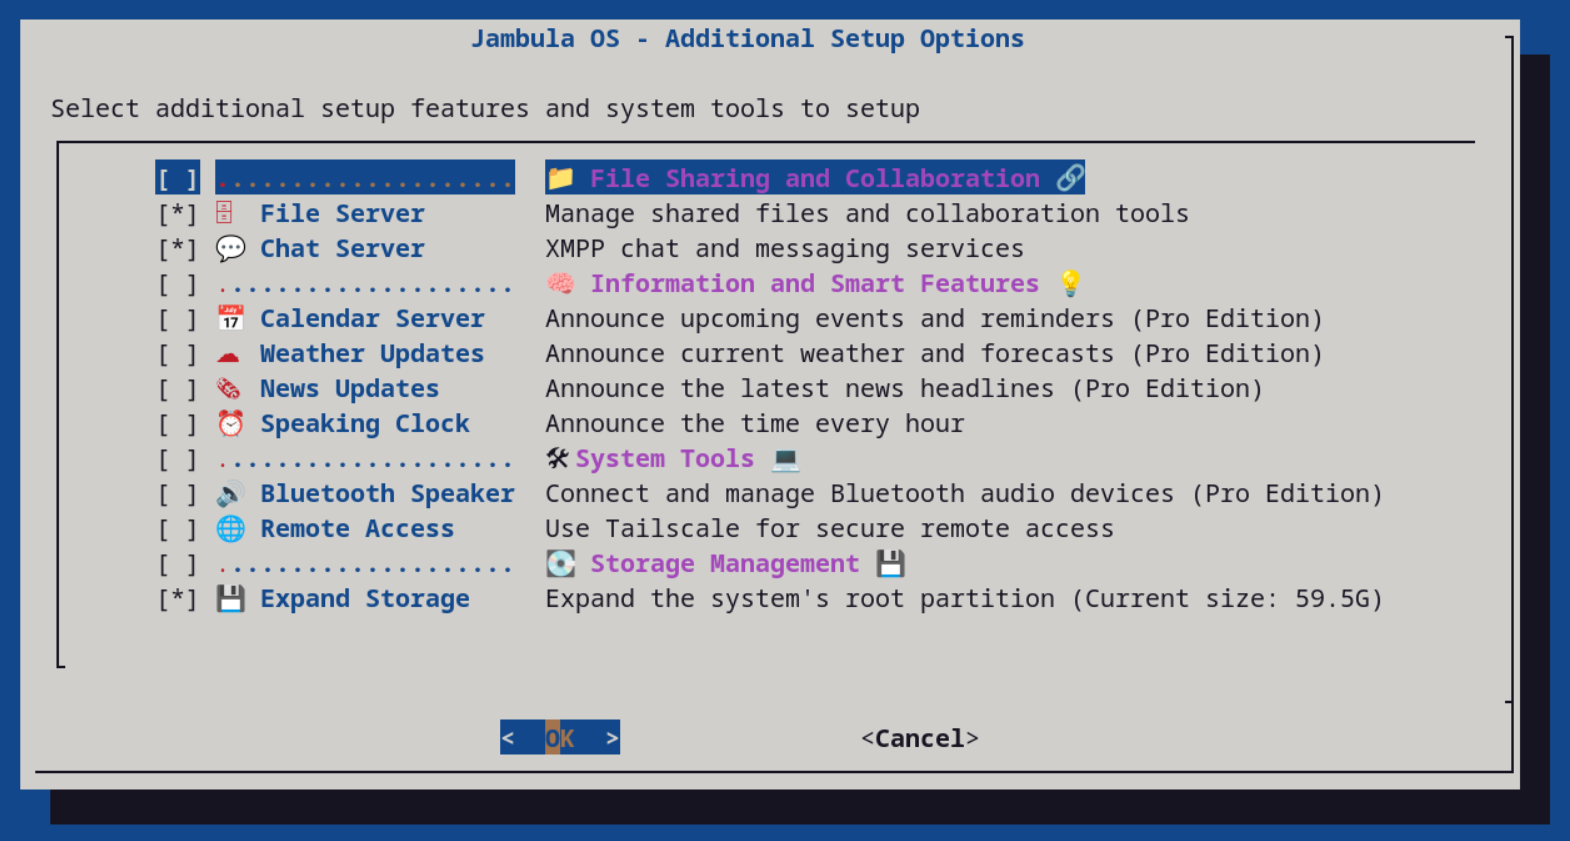
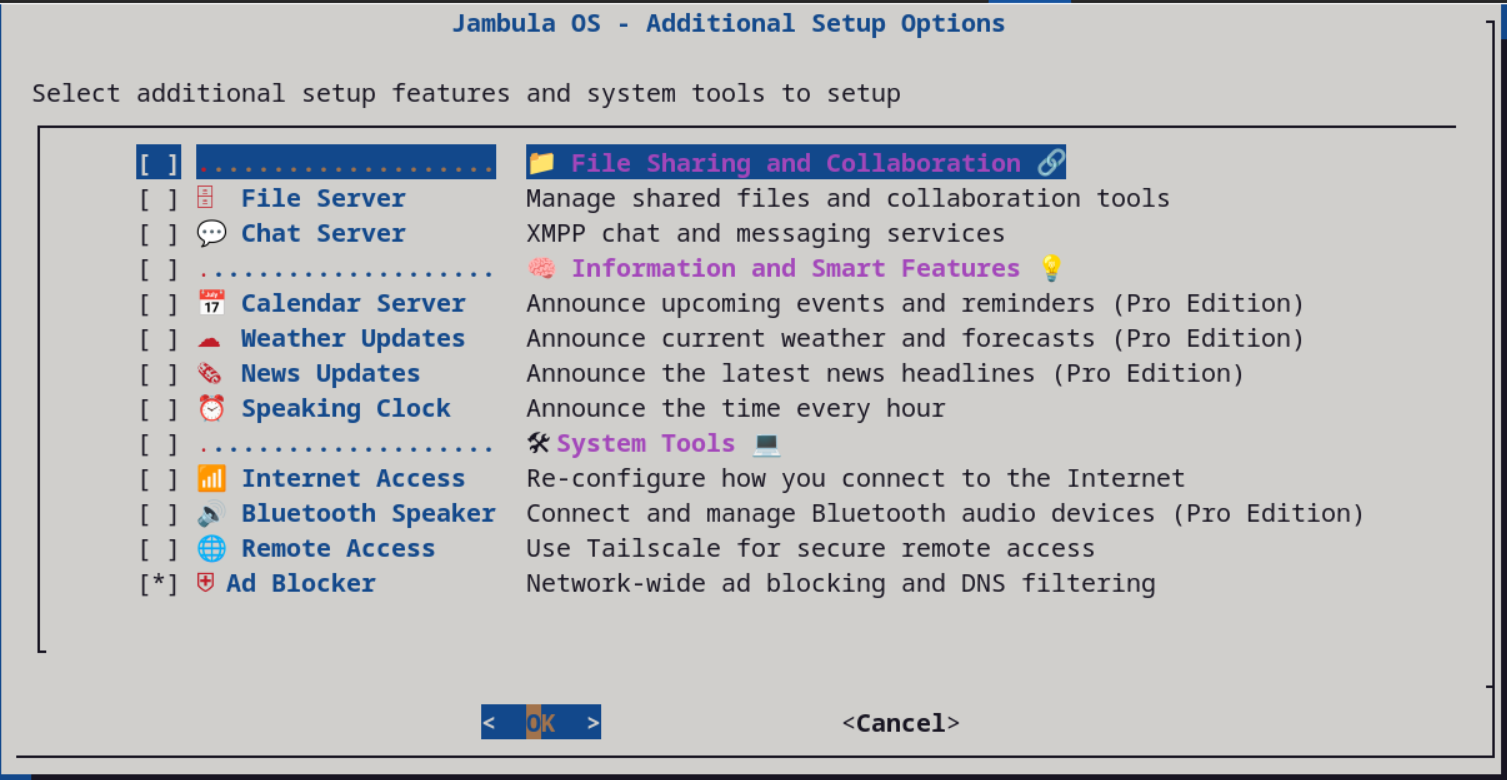
Bump version to 2026.9.0

Changed region(s): [[0.0, 0.0, 1.0, 1.0]]

diff --git a/CHANGELOG.md b/CHANGELOG.md
@@ -1,5 +1,200 @@
 # Changes
 
+## 2026.9.0
+
+### Added
+- Add initial support for x86_64
+- Add initial support for Raspberry Pi Zero W v1.1
+- Add ZeroPlay package and enable it along with libwebsockets on Raspberry Pi Zero W
+- Add zeroplay-remote service for remote-controlled playback from any web browser on PC or mobile
+- Add PipeWire support to the ZeroPlay service
+- Add jambula-radio-volume service for time-based speaker volume control
+- Add open gate audio alert handling to the MQTT events listener
+- Add initial support for NFS file sharing on clients
+- Add AdGuard Home ad blocker support with a buildroot package and setup option
+- Add AdGuard DNS redirect and DoT block to the jambula-internal firewall zone
+- Add WLAN_INTERFACE variable to global functions
+- Add support for colors in dialog menus
+- Show device name alongside MAC address in the Bluetooth discovery list
+- Save errors to a log file during jambula-setup without breaking dialog screens
+
+### Changed
+- Bump Frigate to version 0.17.2 (via 0.17.1)
+- Use a dedicated interface name (ap0) for the hostapd AP instead of the shared wlan device, and add it to the internal firewall zone
+- Move detection and selection of wireless device(s) in setup scripts to a unified global function
+- Refactor initial boot script for configuring system services
+- Move systemd service disabling from the initial boot script to pre-configured presets
+- Move psplash progress reporting from the jambula-initial-boot service into the called configuration scripts
+- Start dnsmasq manually during prosody setup instead of via systemd
+- Migrate tvheadend system user and config path from hts to tvheadend to match the buildroot package user
+- Improve Bluetooth device auto-reconnection reliability during boot
+- Update Jambula radio streams, schedule and speaker volume
+- Update default motion configuration file
+- Suppress verbose output during boot on Raspberry Pi Zero W
+- Remove obsolete Raspberry Pi 1 Model B kernel config
+- Remove realtek kernel module from the automatic startup list
+- Skip snapcast client setup prompts when the system role is already known
+- Switch system role and internet connection type dialogs from checklist to radiolist in jambula-setup
+- Adjust jambula-setup dialog height for the selected options list
+- Fix HTTP casing in the nginx setup dialog message
+- Make dialog menu wording in select_wifi_device generic to cover both server and client setups
+- Clarify pairing prerequisites and connection requirements in the Bluetooth setup script
+- Remove redundant dialog clear at the end of the Tailscale setup script
+- Remove leftover debugging code from the wifi client setup script
+- Revert logging and descriptor redirection in functions introduced in dcdff7a (did not work as intended)
+- Revert jambula-setup logging rules inside bash_profile to the original
+
+### Fixed
+
+#### Audio and Bluetooth
+- Route audio playback through PipeWire so output to Bluetooth devices works
+- Enable onboard Bluetooth on Pi Zero W by removing the disable-bt overlay and freeing the UART console
+- Increment psplash progress after configuring wireplumber bluez during initial setup
+- Resolve missing ALSA UCM configuration errors by creating a dummy ucm.conf
+- Remove unsupported metadata_selector option from MPD input config
+- Create the mpd log file and update its group ownership in the mpd server and playlists setup script
+- Update snapclient systemd unit with dependencies and delay to resolve connection refused error during boot
+- Remove unused START_SNAPCLIENT variable from the snapclient setup script
+
+#### Networking, Wi-Fi and hotspot
+- Configure the wifi interface via systemd-networkd during the temporary hotspot so the kea DHCP server works
+- Restart kea-dhcp4 after hostapd on wifi band switch to restore client connectivity
+- Enable kea DHCP lease persistence and remove the backup .orig config file
+- Mask systemd-networkd-wait-online.service to reduce boot time
+- Initialize Wi-Fi mode before checking the access point band in jambula-switch-wifi-ap-band
+- Fall back to hostapd_cli for WiFi band when iw reports no channel
+- Disable the in-kernel rtl8xxxu module to prevent conflict with the out-of-tree rtl8188eu AP driver
+- Resolve hostapd startup errors by disabling 802.11ac on the 2.4 GHz AP and using the US regulatory domain for the temporary setup hotspot
+- Harden initial temporary wifi hotspot setup script logic, fix kea syntax, and remove .local from avahi configuration
+- Remove .local TLD from avahi static hosts configuration to prevent mDNS hostname conflicts
+- Run dnsmasq in foreground and wait for the br0 WiFi hotspot IP to prevent systemd SIGTERM
+- Silence firewall-cmd output during hostapd internal zone assignment
+- Ensure AP networking is set up before configuring other services
+- Check that the AP bridge device file exists before reading it to avoid initial setup errors
+- Update and resolve bugs in wifi client setup
+- Use WLAN_INTERFACE as the default wifi device in the prosody setup script
+- Use WLAN_INTERFACE as the default wifi device in the AP networking setup script
+- Restart service always when setting up Tailscale remote access
+- Update ntp setup script to overwrite timesyncd config with local and remote NTP pool servers
+- Increase fs.inotify.max_user_watches to prevent systemctl failures
+
+#### Boot and initial setup
+- Resolve initial boot hangs and delays while configuring the temporary hotspot
+- Reduce initial boot delays in temporary Wi-Fi AP setup by replacing a blocking avahi poll with a bounded wait and trimming sleep times
+- Reduce initial boot delays in system services setup by separating disable from stop and only stopping running units
+- Increase jambula-initial-boot timeout to 300s to prevent premature termination
+- Update initial-boot systemd service ordering and add error handling for psplash calls
+- Add dhcpcd to the disable list, prevent abort on disable failure, and disable all matching unit extensions per service
+- Add frigate, mariadb and radicale services to the systemd disable list during initial system configuration
+- Correct zram-swap.service ordering to break a sysinit dependency cycle during boot
+- Disable jambula-radio-volume.timer by default to stop repeated failures from missing config on first boot
+- Stagger jambula systemd timers and remove RandomizedDelaySec to prevent concurrent execution
+- Delay tty getty startup to keep boot log noise off the login prompt
+- Clear invalid getty credential import path caused by slashes in instance names
+- Display only one logo at boot time
+- Resolve missing polkit rules directory errors via tmpfiles configuration
+- Add clock system group to buildroot users_table.txt
+- Write system time to RTC on sync to prevent hardware drift during jambula-clock execution
+- Ensure the jambula config directory exists and prevent duplicate systemd symlink creation during smart radio setup
+- Update setup script to read a single selection from radiolist dialog menus
+
+#### Raspberry Pi Zero W hardware
+- Reduce CMA reservation to 128MB to free up RAM
+- Unblacklist bcm2835_codec for hardware H.264 decode and drop the redundant modules-load.d entry
+- Enable bcm2835_codec module autoload during boot
+- Increase GPU memory and enable the KMS driver for video playback
+- Remove cgroup memory tracking from the kernel command line
+- Enable dwc2 host mode overlay for USB keyboard/device support
+- Trim linux-systemd.fragment to reduce cgroup/audit stack pressure, remove stray ARM64 4K-page fragment, and prune unused RPi board config/readme variants for raspberrypi-0-w
+
+#### Services and packages
+- Rework rain phrasing and make heavy-rain warnings list every forecasted day/period in the jambula-weather tool
+- Improve MySQL database setup with startup ping checks, waits and an auto-reinitialization fallback
+- Wait for the prosody systemd service to be active before adding chat users
+- Update and rename patch to allow prosody to build with Lua 5.4
+- Source the functions file in the tvheadend setup script to fix a missing dialog command
+- Update tvheadend systemd service user to match the buildroot package
+- Update frigate web symlink to the dist folder to fix frontend camera display
+- Remove premature frigate web directory creation in the buildroot package makefile that prevented the symlink from being placed correctly
+- Generate frigate sysconfig dynamically using buildroot package makefile variables
+- Include the frigate web symlink in the frigate uninstallation script
+- Remove legacy kodi reference from raspberrypi_5 defconfig paths
+
+### Build
+- Update buildroot config for Raspberry Pi Zero W (multiple updates)
+- Update buildroot config for Raspberry Pi 1 B
+- Update default config and variant fragments to match latest sources plus Linux kernel and headers
+- Remove legacy options from config files in the latest sources
+- Remove rpi4 firmware, bind, ntpd, squid and nut packages from buildroot config files for rpi5
+- Increase TARGET_ROOTFS_EXT2_SIZE for all rpi5 images (7680M, then 7936M)
+- Update BR2_LINUX_KERNEL_PATCH path in buildroot configs for rpi5
+- Add rp1-pio kernel config fragment for Raspberry Pi 5 to fix rp1-pio probe error -2
+- Add simple free and paid build targets to automate setup, configs and patches
+- Improve package patching logic and strip level in the pre-build script
+- Add rsync patch to fix compilation failure during package build
+- Fix clean build failures of the pydio-cells package by adding missing dependencies and correcting directory permissions
+- Add site-packages and working dir to PYTHONPATH in frigate package sysconfig generation
+- Replace boot logo image assets with updated designs
+- Remove the time command from free and paid image compilation steps
+
+
+## 2026.5.3
+
+### Added
+- Add openNDS captive portal setup script
+- Add system user definition for the openNDS captive portal server
+- Integrate openNDS captive portal web pages into the post-build sync pipeline
+- Add company domain name variable in global functions
+
+### Changed
+- Migrate AP wireless and routing services from wlan0 to the br0 bridge
+- Refactor opennds setup script to use native configuration rules
+- Use default and auto-generated database credentials for Pydio Cells setup
+- Display created access credentials in MySQL database setup
+- Secure password creation in the prosody setup script
+- Refresh initial setup wizard layout and text colors for an improved onboarding experience
+- Polish root password update dialog wording in jambula-setup
+- Log jambula-setup background errors to keep screens clean
+- Simplify systemctl reboot command during initial setup and protect the setup log variable called by other scripts
+- Suppress background networking errors during the initial setup wizard
+
+### Fixed
+- Remove duplicate hardcoded wlan1 reference in internet via wpa_supplicant setup
+- Ensure the MPD data directory and database exist during setup
+- Evaluate wifi mode correctly in jambula-sysinfo
+- Add missing http protocol prefix to the completion notice in webcam setup
+
+### Build
+- Upgrade openNDS package to version 11.0.0
+- Add dnsmasq.conf to the overlay directory to fix a missing file error during initial setup
+- Add kea DHCP lease parsing and fix dnsmasq systemctl reload in opennds libraries
+- Add rpi5 Broadcom firmware to the rootfs overlay to ensure hostapd stability
+
+
+## 2026.5.2
+
+### Security
+- Enable Yama LSM for ptrace restriction to mitigate CVE-2026-46333
+- Disable vulnerable ESP and RXRPC modules to mitigate CVE-2026-43284
+
+### Changed
+- Update Bluetooth setup instructions to use the generic default audio sink
+- Refine MySQL service startup dialog during initial database setup
+- Polish MPD setup prompts and titles
+- Improve root password prompt dialog during initial setup
+
+### Fixed
+- Route kea-dhcp clients to the gateway for local domain resolution
+- Trim whitespace from vendor description and modernise bash test syntax in hostapd setup
+- Include Chat Server in the setup options file during initial configuration
+- Update sysinfo display to show edition instead of install date
+- Simplify and fix network gateway IP and device parsing logic
+- Ensure the options file is freshly created during setup
+- Enable snapclient without starting it during initial setup to prevent shutdown hang
+- Suppress journal log spam and correct mpc status parsing
+- Ignore commented variant entries when parsing the os-release file in project functions
+
+
 𝟐𝟎𝟐6.5.1
 --------
 

diff --git a/README.md b/README.md
@@ -18,17 +18,19 @@ services.  There's an initial ncurses style based setup program that allows you 
 will be provided by your Raspberry Pi.  However, in order to use it effectively, you need to already be 
 familiar with using Linux on the command line interface (CLI).
 
-You will also need a Raspberry Pi 5 along with all required boot accessories, including an SD card of at least 8 GB.
+You will also need a supported raspberry Pi board along with all required boot accessories, including an SD card of appropriate size.
 
 <b>Supported Boards</b>
 
 1. Raspberry Pi 5 Model B Rev 1.0
 
-![alt text](graphics/jambula_os_2026_5.png "Jambula OS Console - System Information")
+2. Raspberry Pi Zero W Version 1.1
+
+![alt text](graphics/jambula_os_version_motd.png "Jambula OS Console - System Information")
 
 <b> How to quickly get started </b>
 
-1. Download the latest Jambula OS image located at:
+1. Download the latest Jambula OS image corresponding to your specific board:
 
    https://jambula.org
 
@@ -38,7 +40,7 @@ You will also need a Raspberry Pi 5 along with all required boot accessories, in
 
    cd /tmp
 
-   7za e jambulaOS-202605-211547-img.7z
+   7za e jambulaOS-202609-291646-img.7z
 
 3. Burn the resulting image i.e. sdcard.img to your SD card using a tool such as dd
 
@@ -90,11 +92,11 @@ You will also need a Raspberry Pi 5 along with all required boot accessories, in
 
 1. Raspberry Pi 4 and 3 series hardware support
 
-2. Photo management
+2. IPv6 configuration in the setup wizard
 
 3. Network and device monitoring
 
-4. Support for x86_64 platform
+4. Full support for x86_64 platform
 
 
 <b>IMPORTANT:  Support Jambula OS</b>
